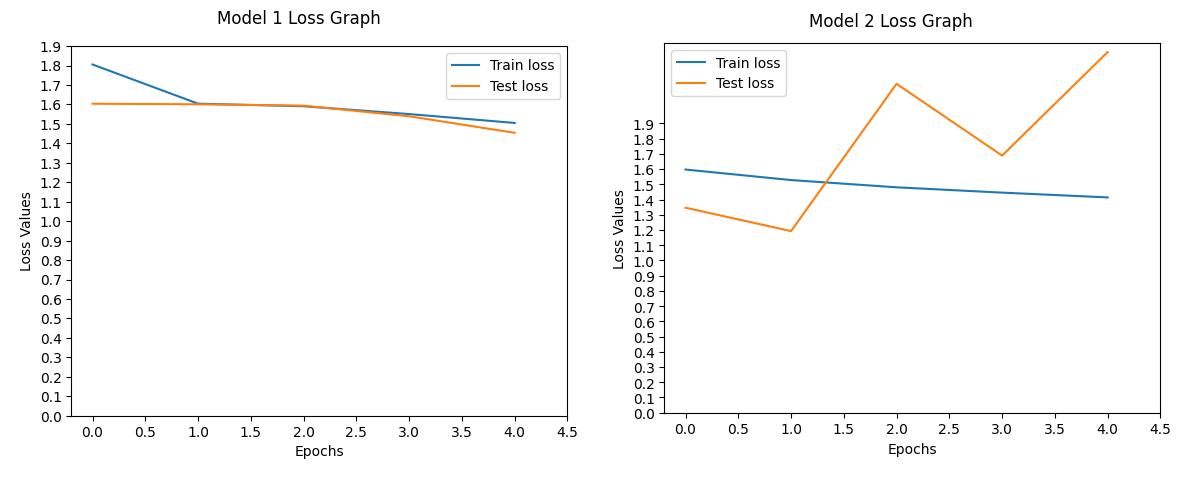
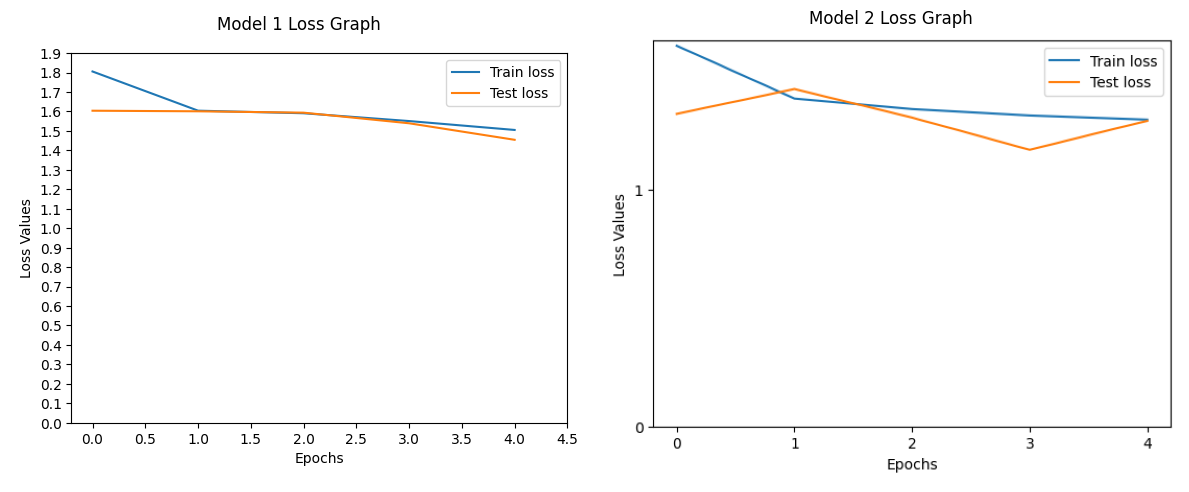
updated readme

diff --git a/README.md b/README.md
@@ -1,42 +1,46 @@
 <!-- jupyter nbconvert --to html --no-input homework1.ipynb -->
-# How to use it
 
-Use `poetry install` to install the necessary dependencies and use `python -m automatic_car <modelname>`, if you just want to play use `python -m automatic_car` and move around using the arrow keys.
+# Jose Manuel Del Valle Delgado 1848580
 
 # Introduction
 
 While the field of deep learning continues to advance and mature daily, there remains a lack of consensus on the definitive approach to determine an optimal model. Unfortunately, I do not have access to sufficient computational power to test various models and parameters extensively. Consequently, the analysis will primarily concentrate on the obtained results.
 
 The scenario involves a car operating within a simulated environment. The primary goal is to address an image classification problem, aiming to understand the behavior of a racing car within a Gym environment.
-Here's am example of the environment.
+Here's a video example of the environment.
 
 ![Example of a run](./media/full_frame.gif)
 
-A thing worth noting is that the dataset is unbalanced
+One notable observation while exploring the environment is its utilization of a technique known as parallax scrolling, where the car appears as a stationary image.
+Another aspect worth noting is the absence of variations in brightness and frame rotations within the environment.
+Consequently, employing data augmentation techniques would not yield significant utility.
 
-![png](report_files/report_5_0.png)
 
-Addressing the imbalance within the dataset is crucial. However, it's important to note that the environment utilizes a technique called parallax scrolling, rendering the car as a stationary image. This, coupled with the absence of variations in brightness and frame rotations, indicates that implementing data augmentation techniques would provide minimal utility or improvement, so no actual trasformations are perfomed on the dataset.
+    
+![png](report_files/report_6_0.png)
+    
 
-# Models Architecture
-
-Model1 and Model2 have distinct architectures:
-
-Model1 comprises two convolutional layers with 12 hidden units each, utilizing Rectified Linear Unit (ReLU) as the activation function. It incorporates max-pooling with kernel dimensions of 3 and strides of 1 and 3, respectively.
-
-In contrast, Model2 employs a more intricate architecture, featuring four convolutional layers with 20 hidden units. Similar to Model1, the convolutional layers use ReLU as the activation function. However, it diverges in the max-pooling strategy, utilizing a kernel dimension of 2 for the first three layers and 3 for the last layer. Moreover, Model2 implements an incremental stride of 1, 2, 5, and 7 across its layers.
-
-Both models end with a final linear layer. During the prediction phase, the output undergoes a softmax transformation, and the prediction is determined based on the highest probability obtained.
 
 # Models evaluation
 
-To begin, I initiated the training of the two models across $80$ epochs, with minibatches of size $32$. To evaluate the model's quality, the initial step involved assessing the loss. PyTorch offers modularity in creating and training neural networks, granting comprehensive control over both the optimizer and the loss function.
+To begin, I initiated the training of the two models across $80$ epochs, with minibatches of size 32. To evaluate the model's quality, the initial step involved assessing the loss. PyTorch offers modularity in creating and training neural networks, granting comprehensive control over both the optimizer and the loss function.
 
-For the loss function, I opted for CrossEntropy loss due to its flexibility in assigning weights to individual classes, considering variations in the number of examples per class.
+For the loss function, I opted for CrossEntropy for noth models loss due to its flexibility in assigning weights to individual classes, considering variations in the number of examples per class, in order to address the problems related to the unbalanced dataset.
 
-Regarding the optimizer, I employed stochastic gradient descent (SGD) due to its fundamental nature and typically reliable performance. Here are the obtained results.
+Regarding the optimizer, I employed stochastic gradient descent (SGD) due to its fundamental nature and typically reliable performance on model 1, and Adam in the second model for its effectivness.
+ Here are the obtained results.
 
+
+    
+![png](report_files/report_10_0.png)
+    
+
+
+
+    
 ![png](report_files/report_11_0.png)
+    
+
 
 An important observation lies in the substantial fluctuation observed in the test loss, notably more pronounced in the second model. This aspect will be elaborated on further in subsequent sections.
 
@@ -46,23 +50,36 @@ However, it's evident from the loss graphs that utilizing $80$ epochs for traini
 
 Preliminary analysis suggests that an optimal number of epochs might hover around $5$. Thus, the plan is to retrain the models with this reduced epoch count and assess the outcomes.
 
-![png](report_files/report_13_0.png)
 
-## Accuracy
+    
+![png](report_files/report_13_0.png)
+    
+
 
 Despite achieving stability in the training loss for model 1, it remains important to establish a quantitative measure of its performance. Initially, let's focus on obtaining a snapshot of its accuracy.
 
+    
+    
+
+
+    
 ![png](report_files/report_15_1.png)
+    
+
 
 In terms of accuracy, it appears that model 2 outperforms model 1 significantly, contrary to our expectations based on the progression of the models' losses. To understand this discrepancy, let's delve into the underlying reasons.
 
 As highlighted in the introduction, we previously acknowledged the highly imbalanced nature of the training dataset. However, this imbalance becomes even more apparent upon closer inspection of the training data.
 
+
+    
 ![png](report_files/report_17_0.png)
+    
+
 
 To gain a more comprehensive understanding of the data distribution, let's analyze the percentage of elements divided by class and keep these numbers in mind.
 
-<!-- markdownlint-disable MD033-->
+
 <table border="1" class="dataframe">
   <thead>
     <tr style="text-align: right;">
@@ -84,39 +101,52 @@ To gain a more comprehensive understanding of the data distribution, let's analy
   </tbody>
 </table>
 
-The observation that class $3$ constitutes around $70\%$ of the total dataset raises suspicions. One possible explanation for what we're observing could be as follows:
 
-Model 1, being a basic CNN, exhibits an accuracy of approximately $20\%$, which suggests that it might be making random guesses among the five available classes.
+The observation that class $3$ constitutes around $70%$ of the total dataset raises suspicions. One possible explanation for what we're observing could be as follows:
 
-Conversely, Model 2 is more complex and deeper, implying a higher number of parameters and overall complexity. This complexity might result in overfitting, where the model essentially memorizes the training data, leading it to predominantly predict class 3 to increase accuracy. To illustrate what I'm trying to say, if we consistently predict class $3$ for $100$ examples, we would achieve around $70\%$ accuracy, the model misclassifies only the remaining classes, which constitute a mere $30%$.
+Model 1, being a basic CNN, exhibits an accuracy of approximately $20%$, which suggests that it might be making random guesses among the five available classes.
+
+Conversely, Model 2 is more complex and deeper, implying a higher number of parameters and overall complexity. This complexity might result in overfitting, where the model essentially memorizes the training data, leading it to predominantly predict class 3 to increase accuracy. To illustrate what I'm trying to say, if we consistently predict class 3 for 100 examples, we would achieve around $70%$ accuracy, the model misclassifies only the remaining classes, which constitute a mere $30%$.
 
 This situation highlights a well-known issue: accuracy is not a reliable metric for imbalanced datasets. The example provided serves as a demonstration of this limitation.
 
-## F1 Score
-
 When handling an imbalanced dataset, precision and recall become preferred metrics. Precision represents the model's capability to avoid false positives, while recall represents its ability to avoid false negatives. An ideal model would display high values for both metrics, yet there typically exists a trade-off between precision and recall. The choice between the two depends on the specific application.
 
-In this scenario, lacking clarity on which metric holds more significance to minimize, I have opted for another metric known as the F1 score, which combines both. Specifically, we will calculate the F1 score using macro averaging, thereby disregarding the number of support instances. This decision is rooted in the limitations of other averaging methods: the micro average aligns closely with accuracy, while the weighted average may excessively emphasize classes with a surplus of examples, such as class $3$ in this case.
+In this scenario, lacking clarity on which metric holds more significance to minimize, I have opted for another metric known as the F1 score, which combines both. Specifically, we will calculate the F1 score using macro averaging, thereby disregarding the number of support instances. This decision is rooted in the limitations of other averaging methods: the micro average aligns closely with accuracy, while the weighted average may excessively emphasize classes with a surplus of examples, such as class 3 in this case.
 
+    
+    
+
+
+    
 ![png](report_files/report_22_1.png)
+    
+
 
 As depicted in the histogram, our achieved F1 score falls significantly below an acceptable minimum threshold, let alone reaching a good standard. This aligns with our previous assertions that these models' performance is notably inadequate.
 
-# Conclusions
+## Conclusions
 
 But why might this be the case?
 
 One prominent reason is the relatively small size of the dataset concerning the complexity of deep learning models. Consequently, it becomes easier for these models to escalate in complexity and overfit the data, a situation particularly noticeable in model 2.
 
-Moreover, the visual similarity among the photos doesn't let trivial models, like model 1, to generalize well. For instance, here are three sample photos extracted from the training dataset, each representing class $0$, $1$, and $3$.
+Moreover, the visual similarity among the photos doesn't let trivial models, like model 1, to generalize well. For instance, here are three sample photos extracted from the training dataset, each representing class 0, 1, and 3.
 
+    
+    
+
+
+    
 ![png](report_files/report_25_1.png)
+    
+
 
 Upon examining these images ('data/test/3/0040.png', 'data/test/0/0048.png', and 'data/test/2/0003.png'), it's apparent that distinguishing among them is challenging, as I struggled to identify which image corresponds to which class. Considering these challenges, it's plausible that the models' limitations persist regardless of the extent of their training or specialization.
 
 This leads me to believe that the dataset itself might not be suitable for the intended task. Allow me to elaborate:
 
-In the introduction, I included a frame illustrating the environment, if we focus on the lower part of that frame.
+In the introduction, I included a GIF illustrating the environment, if we focus on the lower part of that GIF.
 
 ![cropped_frame](media/cropped_frame.gif)
 
@@ -124,7 +154,7 @@ The movements of the elements in the bar is evidently linked to the state of the
 
 To illustrate this further, the car has three levels of acceleration. Decelerating by a level reduces the acceleration, indicating that regardless of the subsequent action, braking isn't a viable choice when the vehicle is stationary. Additionally, when the car is motionless, it's impossible to steer left or right, and idling results in point deductions. Consequently, the only viable option is to accelerate.
 
-This example clarifies two aspects. Firstly, the predominance of class $3$ (gassing) instances can be attributed to the fact that often, accelerating is the only feasible action. Secondly, the information conveyed by the bar is crucial. Unfortunately, due to the small size of the images, extracting information from the lower bar becomes exceedingly challenging, given its relatively small portion of the frame.
+This example clarifies two aspects. Firstly, the predominance of class 3 (gassing) instances can be attributed to the fact that often, accelerating is the only feasible action. Secondly, the information conveyed by the bar is crucial. Unfortunately, due to the small size of the images, extracting information from the lower bar becomes exceedingly challenging, given its relatively small portion of the frame.
 
 In my spare time, I attempted to train a model to address this issue, locating where the bar is (see frame_dataset.ModifiedFramesDataset) but unfortunately, I was unsuccessful (mainly due to the fact that the images convey no information and are mostly black).
 
@@ -140,3 +170,4 @@ In my spare time, I attempted to train a model to address this issue, locating w
 - [Why i choose macro averaged F1 Score](https://towardsdatascience.com/micro-macro-weighted-averages-of-f1-score-clearly-explained-b603420b292f#:~:text=(3)-,Macro%20Average,-Macro%20averaging%20is)
 - [Why I choose Accuracy and F1 score as metrics](https://medium.com/analytics-vidhya/confusion-matrix-accuracy-precision-recall-f1-score-ade299cf63cd)
 - [Why I choose F1 score over precision and recall and precision and recall tradeoff](https://medium.com/analytics-vidhya/precision-recall-tradeoff-79e892d43134)
+
